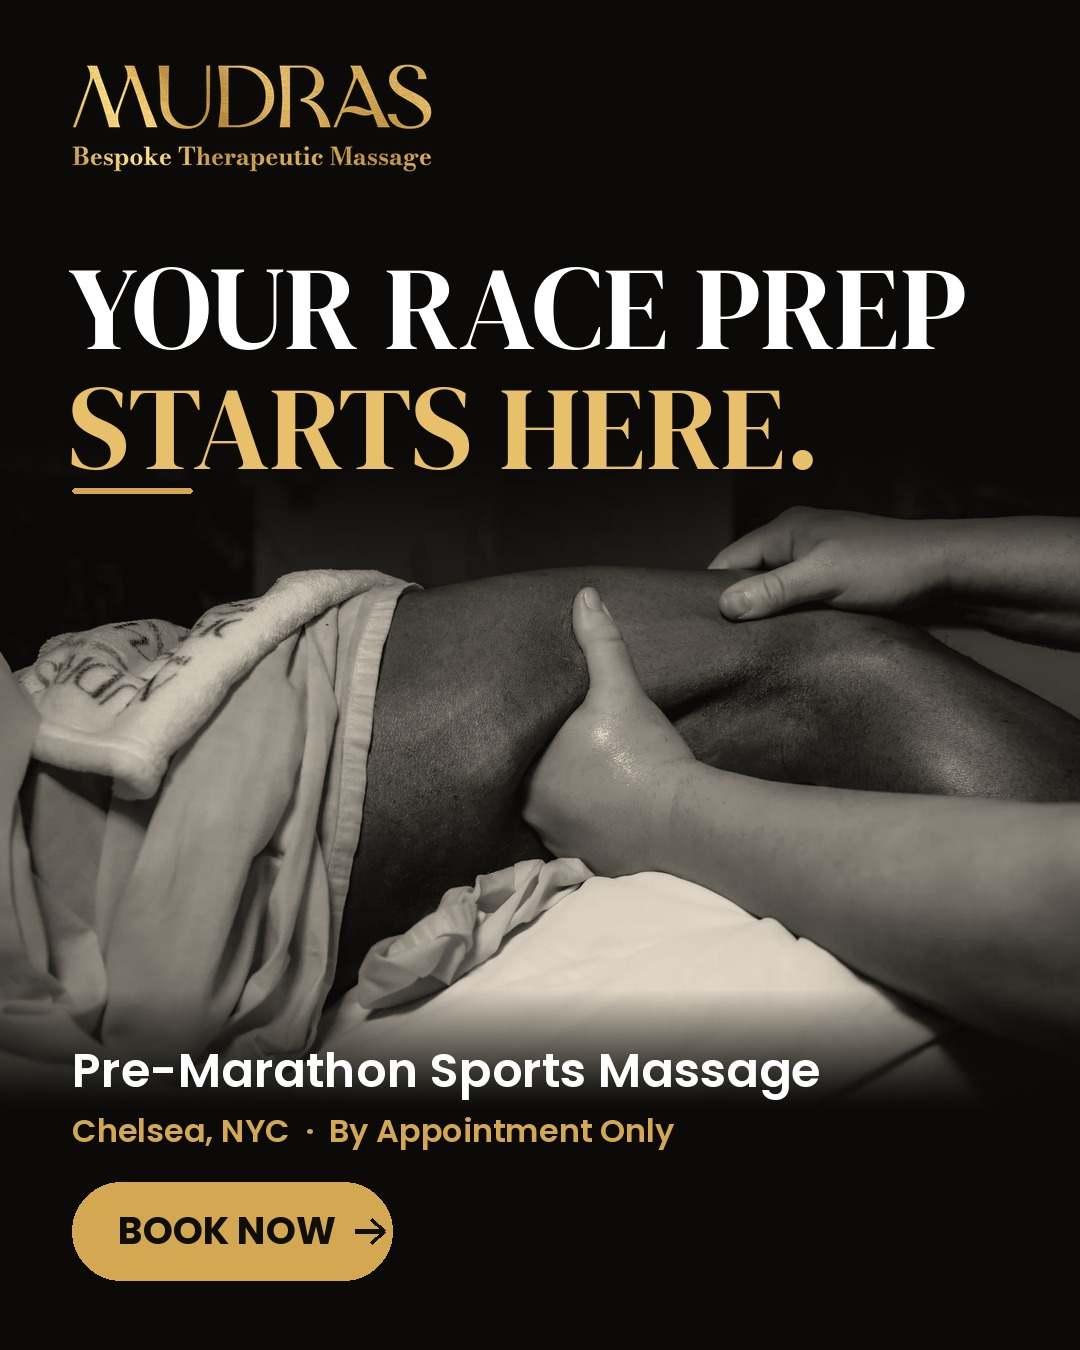
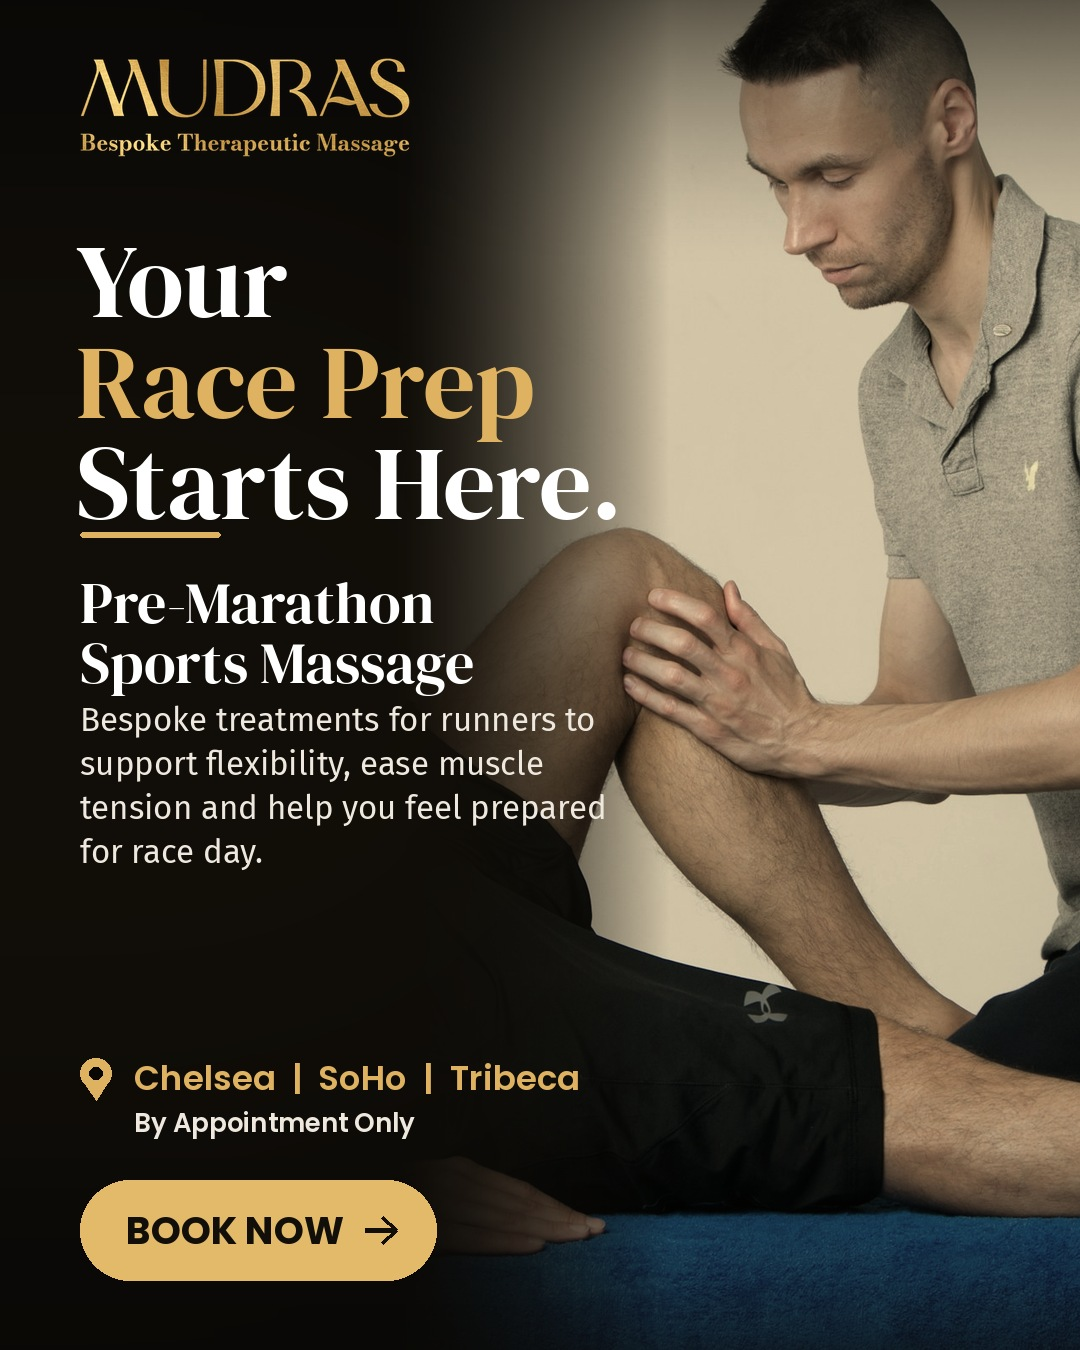
Rebuild Mudras marathon ads: original copy and layout, clearer colour treatment photos
Claude-Session: https://claude.ai/code/session_012iSs7UT5B2wZwFj8sHQe5L

diff --git a/ad-creatives/mudras-marathon/src/mudras.py b/ad-creatives/mudras-marathon/src/mudras.py
@@ -1,122 +1,204 @@
 import sys
 import numpy as np
-from PIL import Image, ImageDraw, ImageFilter, ImageFont
+from PIL import Image, ImageDraw, ImageFilter, ImageFont, ImageOps
 
 D = sys.argv[1]
 M = D + '/m/'
 F = D + '/fonts/'
 OUT = sys.argv[2]
-GOLD = (212, 168, 83)      # sampled from the Mudras logo (#c89848 .. #e0b860)
-GOLD_HI = (232, 192, 108)
+GOLD = (222, 178, 96)
+GOLD_BTN = (226, 186, 106)
 WHITE = (255, 255, 255)
-SOFT = (226, 220, 208)
+BODY = (238, 232, 222)
+INK = (18, 15, 10)
 serif = lambda s: ImageFont.truetype(F + 'DMSerifDisplay-Regular.ttf', s)
 sans = lambda s: ImageFont.truetype(F + 'Poppins-SemiBold.ttf', s)
+body = lambda s: ImageFont.truetype(F + 'FiraSans-Regular.ttf', s)
 bold = lambda s: ImageFont.truetype(F + 'Poppins-Bold.ttf', s)
 
 logo = Image.open(M + 'site/18.img').convert('RGBA')
 logo = logo.crop(logo.getbbox())
 
-# (source file, focus point as fractions of the source, headline lines with gold flag, service line)
+# Copy is kept word for word from the approved ad preview.
 ADS = [
-    ('0.img', (0.74, 0.47), [('RUN STRONG', False), ('IN NYC.', True)], 'Pre-Marathon Sports Massage', 'run-strong'),
-    ('6.img', (0.52, 0.66), [('NYC MARATHON', False), ('READY?', True)], 'Pre-Race Sports Massage', 'marathon-ready'),
-    ('14.img', (0.62, 0.36), [('YOUR RACE PREP', False), ('STARTS HERE.', True)], 'Pre-Marathon Sports Massage', 'race-prep'),
+    dict(slug='run-strong', photo='knead.jpg', focus=(0.46, 0.5), mirror=False, zoom=1.0,
+         head=[('RUN STRONG', WHITE), ('IN NYC.', GOLD)],
+         sub=['Pre-Marathon', 'Sports Massage'],
+         copy='Targeted bodywork to help you feel more mobile, reduce muscle tension and prepare for race day.',
+         icons=[('tension', 'Reduce\nMuscle Tension'), ('mobility', 'Improve\nMobility'), ('ready', 'Feel\nRace-Ready')]),
+    dict(slug='marathon-ready', photo='forearm.jpg', focus=(0.46, 0.70), mirror=False, zoom=1.3,
+         head=[('NYC', WHITE), ('MARATHON', WHITE), ('READY?', GOLD)],
+         sub=['Pre-Race', 'Sports Massage'],
+         copy='Personalized, one-on-one sessions to support your body, mobility and race preparation.',
+         icons=None),
+    dict(slug='race-prep', photo='physio.jpg', focus=(0.50, 0.5), mirror=False, zoom=1.0,
+         head=[('Your', WHITE), ('Race Prep', GOLD), ('Starts Here.', WHITE)],
+         sub=['Pre-Marathon', 'Sports Massage'],
+         copy='Bespoke treatments for runners to support flexibility, ease muscle tension and help you feel prepared for race day.',
+         icons=None),
 ]
 
 
-def warm(im):
-    """Gentle warm duotone on the black-and-white session photos so they sit with the gold."""
-    g = np.asarray(im.convert('L')).astype(np.float32) / 255
-    g = np.clip((g - 0.04) * 1.12, 0, 1) ** 0.95
-    lo = np.array([10, 9, 7], np.float32)
-    hi = np.array([246, 236, 218], np.float32)
-    return Image.fromarray((lo + (hi - lo) * g[..., None]).astype(np.uint8))
+def grade(im):
+    """Warm, low-key grade so every photo sits in the black-and-gold Mudras look."""
+    a = np.asarray(im.convert('RGB')).astype(np.float32) / 255
+    lum = a @ np.array([0.299, 0.587, 0.114], np.float32)
+    a = a * 0.55 + lum[..., None] * 0.45                      # pull saturation down
+    a = a * np.array([1.06, 0.98, 0.86], np.float32)          # warm
+    a = np.clip(a, 0, 1) ** 1.25 * 0.92                        # deeper shadows
+    return Image.fromarray((np.clip(a, 0, 1) * 255).astype(np.uint8))
 
 
-def band(img, src, focus, y0, y1, fade=130):
-    W = img.width
-    im = warm(Image.open(M + 'site/' + src))
-    bh = y1 - y0
-    cw = im.width
-    ch = int(cw * bh / W)
-    if ch > im.height:  # portrait-ish band: crop width instead
-        ch = im.height
-        cw = int(ch * W / bh)
-    cx = int(np.clip(focus[0] * im.width - cw / 2, 0, im.width - cw))
-    cy = int(np.clip(focus[1] * im.height - ch / 2, 0, im.height - ch))
-    ph = im.crop((cx, cy, cx + cw, cy + ch)).resize((W, bh), Image.LANCZOS).convert('RGBA')
-    y = np.arange(bh, dtype=np.float32)
-    a = np.clip(np.minimum(y / fade, (bh - 1 - y) / fade), 0, 1) ** 1.3 * 255
-    ph.putalpha(Image.fromarray(np.repeat(a[:, None], W, 1).astype(np.uint8)))
-    img.alpha_composite(ph, (0, y0))
-
-
-def place(src, focus, W, H, target):
-    im = warm(Image.open(M + 'site/' + src))
-    sc = max(W / im.width, H / im.height) * 1.02
+def photo(ad, W, H, target):
+    im = Image.open(M + 'u/full/' + ad['photo']).convert('RGB')
+    if ad['mirror']:
+        im = ImageOps.mirror(im)
+        ad = dict(ad, focus=(1 - ad['focus'][0], ad['focus'][1]))
+    sc = max(W / im.width, H / im.height) * ad['zoom']
     im = im.resize((int(im.width * sc), int(im.height * sc)), Image.LANCZOS)
-    fx, fy = focus[0] * im.width, focus[1] * im.height
+    fx, fy = ad['focus'][0] * im.width, ad['focus'][1] * im.height
     x0 = int(np.clip(fx - target[0], 0, im.width - W))
     y0 = int(np.clip(fy - target[1], 0, im.height - H))
-    return im.crop((x0, y0, x0 + W, y0 + H)).convert('RGBA')
+    return grade(im.crop((x0, y0, x0 + W, y0 + H))).convert('RGBA')
 
 
-def shade(img, top_end, bot_start, top_a=235, bot_a=245):
+def shade(img, left_end, top_band, bottom_band):
     W, H = img.size
-    y = np.arange(H, dtype=np.float32)
-    a = np.maximum(np.clip(1 - y / top_end, 0, 1) ** 1.4 * top_a,
-                   np.clip((y - bot_start) / (H - bot_start), 0, 1) ** 1.2 * bot_a)
-    lay = Image.new('RGBA', (W, H), (0, 0, 0, 255))
-    lay.putalpha(Image.fromarray(np.repeat(a[:, None], W, 1).astype(np.uint8)))
+    yy, xx = np.mgrid[0:H, 0:W].astype(np.float32)
+    left = np.clip(1 - xx / left_end, 0, 1) ** 0.9 * 238
+    top = np.clip(1 - yy / top_band, 0, 1) ** 1.5 * 210
+    bot = np.clip((yy - (H - bottom_band)) / bottom_band, 0, 1) ** 1.3 * 225
+    vig = (np.hypot((xx - W * 0.7) / W, (yy - H * 0.5) / H) * 120)
+    a = np.clip(np.maximum.reduce([left, top, bot]) + vig * 0.6, 0, 245)
+    lay = Image.new('RGBA', (W, H), (8, 7, 5, 255))
+    lay.putalpha(Image.fromarray(a.astype(np.uint8)))
     img.alpha_composite(lay)
 
 
-def fit_font(d, lines, maxw, start):
-    s = start
-    while max(d.textlength(t, font=serif(s)) for t, _ in lines) > maxw:
-        s -= 2
-    return s
+def wrap(d, text, font, width):
+    out, cur = [], ''
+    for w in text.split():
+        t = (cur + ' ' + w).strip()
+        if d.textlength(t, font=font) > width and cur:
+            out.append(cur); cur = w
+        else:
+            cur = t
+    return out + [cur]
 
 
-def render(src, focus, lines, service, slug, W, H, kind):
-    story = kind == 'story'
-    # keep text inside Meta's safe zones: stories lose ~14% top and ~20% bottom to UI
-    top0 = 250 if story else 64
-    bottom_pad = 340 if story else 70
-    img = Image.new('RGBA', (W, H), (11, 10, 8, 255))
-    if story:
-        band(img, src, focus, 600, 1370, 150)
-    else:
-        band(img, src, focus, 440, 1110, 120)
+def icon(d, kind, cx, cy, r, col=GOLD):
+    d.ellipse((cx - r, cy - r, cx + r, cy + r), outline=col, width=3)
+    s = r * 0.5
+    if kind == 'tension':  # tight zig-zag easing into a smooth line
+        pts = [(cx - s, cy), (cx - s * 0.6, cy - s * 0.5), (cx - s * 0.2, cy + s * 0.5), (cx + s * 0.15, cy - s * 0.3),
+               (cx + s * 0.4, cy + s * 0.1), (cx + s, cy + s * 0.1)]
+        d.line(pts, fill=col, width=4, joint='curve')
+    elif kind == 'mobility':  # circular arrows
+        d.arc((cx - s, cy - s, cx + s, cy + s), 200, 340, fill=col, width=4)
+        d.arc((cx - s, cy - s, cx + s, cy + s), 20, 160, fill=col, width=4)
+        d.polygon([(cx + s * 0.95, cy - s * 0.55), (cx + s * 1.15, cy - s * 0.05), (cx + s * 0.55, cy - s * 0.2)], fill=col)
+        d.polygon([(cx - s * 0.95, cy + s * 0.55), (cx - s * 1.15, cy + s * 0.05), (cx - s * 0.55, cy + s * 0.2)], fill=col)
+    else:  # race-ready: check mark
+        d.line((cx - s * 0.75, cy + s * 0.05, cx - s * 0.2, cy + s * 0.6, cx + s * 0.85, cy - s * 0.6), fill=col, width=5, joint='curve')
+
+
+def pin(d, x, y, h, col=GOLD):
+    r = h * 0.36
+    d.ellipse((x - r, y, x + r, y + 2 * r), fill=col)
+    d.polygon([(x - r * 0.86, y + r * 1.5), (x + r * 0.86, y + r * 1.5), (x, y + h)], fill=col)
+    d.ellipse((x - r * 0.4, y + r * 0.6, x + r * 0.4, y + r * 1.4), fill=(8, 7, 5))
+
+
+def right_photo(ad, W, H, frac=0.64, fade=280):
+    """Photo fills the right side at full height; its left edge melts into black, like the original layout."""
+    im = Image.open(M + 'u/full/' + ad['photo']).convert('RGB')
+    if ad['mirror']:
+        im = ImageOps.mirror(im)
+    fx = (1 - ad['focus'][0]) if ad['mirror'] else ad['focus'][0]
+    rw = int(W * frac)
+    sc = H / im.height * ad['zoom']
+    im = im.resize((int(im.width * sc), int(im.height * sc)), Image.LANCZOS)
+    cx = int(np.clip(fx * im.width - rw / 2, 0, max(0, im.width - rw)))
+    cy = int(np.clip(ad['focus'][1] * im.height - H / 2, 0, im.height - H))
+    ph = grade(im.crop((cx, cy, cx + rw, cy + H))).convert('RGBA')
+    xx = np.arange(rw, dtype=np.float32)
+    a = (np.clip(xx / fade, 0, 1) ** 1.6 * 255)
+    ph.putalpha(Image.fromarray(np.repeat(a[None, :], H, 0).astype(np.uint8)))
+    img = Image.new('RGBA', (W, H), (9, 8, 6, 255))
+    glow = Image.new('L', (W, H), 0)
+    ImageDraw.Draw(glow).ellipse((-W * 0.4, H * 0.1, W * 0.7, H * 0.9), fill=40)
+    lay = Image.new('RGBA', (W, H), (60, 44, 22, 255))
+    lay.putalpha(glow.filter(ImageFilter.GaussianBlur(160)))
+    img.alpha_composite(lay)
+    img.alpha_composite(ph, (W - rw, 0))
+    # gentle top/bottom darkening keeps logo and CTA crisp
+    yy = np.arange(H, dtype=np.float32)
+    v = np.maximum(np.clip(1 - yy / (H * 0.2), 0, 1) ** 1.5 * 150, np.clip((yy - H * 0.8) / (H * 0.2), 0, 1) ** 1.5 * 170)
+    lay = Image.new('RGBA', (W, H), (9, 8, 6, 255))
+    lay.putalpha(Image.fromarray(np.repeat(v[:, None], W, 1).astype(np.uint8)))
+    img.alpha_composite(lay)
+    return img
+
+
+def render(ad, W, H, story):
+    pad = 80
+    top0 = 240 if story else 58
+    img = right_photo(ad, W, H, frac=0.70 if story else 0.64, fade=300 if story else 280)
     d = ImageDraw.Draw(img)
-    pad = 72
-    lw = 360
+    colw = int(W * 0.50)
+    lw = 330
     lg = logo.resize((lw, int(logo.height * lw / logo.width)), Image.LANCZOS)
     img.alpha_composite(lg, (pad, top0))
-    y = top0 + lg.height + 54
-    fs = fit_font(d, lines, W - 2 * pad, 118)
-    for t, gold in lines:
-        d.text((pad - 4, y), t, font=serif(fs), fill=GOLD_HI if gold else WHITE)
-        y += int(fs * 1.02)
-    d.rounded_rectangle((pad, y + 22, pad + 120, y + 27), 2, fill=GOLD)
-    # bottom block
-    by = H - bottom_pad - 98
+    gap = 1.5 if story else 1.0
+    y = top0 + lg.height + int(52 * gap)
+    hs = 112 if len(ad['head']) == 2 else 104
+    while max(d.textlength(t, font=serif(hs)) for t, _ in ad['head']) > W * 0.62:
+        hs -= 2
+    for t, c in ad['head']:
+        d.text((pad - 4, y), t, font=serif(hs), fill=c)
+        y += int(hs * 0.98)
+    y += 20
+    d.rounded_rectangle((pad, y, pad + 140, y + 5), 2, fill=GOLD)
+    y += int(30 * gap)
+    for t in ad['sub']:
+        d.text((pad, y), t, font=serif(58), fill=WHITE)
+        y += 60
+    y += int(18 * gap)
+    for ln in wrap(d, ad['copy'], body(33), colw):
+        d.text((pad, y), ln, font=body(33), fill=BODY)
+        y += 44
+    if ad['icons']:
+        y += int(26 * gap)
+        cw = 172
+        for i, (k, label) in enumerate(ad['icons']):
+            cx = pad + 78 + i * cw
+            icon(d, k, cx, y + 40, 38)
+            for j, ln in enumerate(label.split('\n')):
+                tw = d.textlength(ln, font=sans(22))
+                d.text((cx - tw / 2, y + 90 + j * 27), ln, font=sans(22), fill=WHITE)
+            if i < 2:
+                d.line((cx + cw / 2, y + 4, cx + cw / 2, y + 140), fill=(120, 96, 56), width=2)
+        y += 150
+    by = H - (330 if story else 70) - 100
     btn = 'BOOK NOW'
     bf = bold(38)
-    bw = d.textlength(btn, font=bf) + 56 + 46
-    d.rounded_rectangle((pad, by, pad + bw, by + 98), 49, fill=GOLD)
-    d.text((pad + 46, by + 22), btn, font=bf, fill=(16, 14, 10))
-    ax = pad + 46 + d.textlength(btn, font=bf) + 20
-    d.line((ax, by + 49, ax + 28, by + 49), fill=(16, 14, 10), width=5)
-    d.line((ax + 16, by + 37, ax + 29, by + 49, ax + 16, by + 61), fill=(16, 14, 10), width=5)
-    d.text((pad, by - 74), 'Chelsea, NYC  ·  By Appointment Only', font=sans(32), fill=GOLD)
-    d.text((pad, by - 146), service, font=sans(48), fill=WHITE)
-    name = f'mudras-{slug}-{"story-1080x1920" if story else "feed-1080x1350"}'
-    img.convert('RGB').save(OUT + f'/{name}.jpg', quality=92)
-    return name
+    tw = d.textlength(btn, font=bf)
+    bw = tw + 56 + 46 + 36
+    d.rounded_rectangle((pad, by, pad + bw, by + 100), 50, fill=GOLD_BTN)
+    d.text((pad + 46, by + 24), btn, font=bf, fill=INK)
+    ax = pad + 46 + tw + 22
+    d.line((ax, by + 50, ax + 30, by + 50), fill=INK, width=5)
+    d.line((ax + 17, by + 37, ax + 31, by + 50, ax + 17, by + 63), fill=INK, width=5)
+    ly = by - 124
+    pin(d, pad + 16, ly + 2, 42)
+    d.text((pad + 54, ly - 2), 'Chelsea  |  SoHo  |  Tribeca', font=sans(34), fill=GOLD)
+    d.text((pad + 54, ly + 48), 'By Appointment Only', font=sans(26), fill=BODY)
+    assert y < ly - 10, (ad['slug'], story, y, ly)
+    name = f'mudras-{ad["slug"]}-{"story-1080x1920" if story else "feed-1080x1350"}'
+    img.convert('RGB').save(OUT + f'/{name}.jpg', quality=93)
+    return name, y, ly
 
 
-for src, focus, lines, service, slug in ADS:
-    print(render(src, focus, lines, service, slug, 1080, 1350, 'feed'))
-    print(render(src, focus, lines, service, slug, 1080, 1920, 'story'))
+for ad in ADS:
+    print(render(ad, 1080, 1350, False))
+    print(render(ad, 1080, 1920, True))

diff --git a/ad-creatives/mudras-marathon/IMAGE-SOURCES.md b/ad-creatives/mudras-marathon/IMAGE-SOURCES.md
@@ -1,13 +1,13 @@
 # Mudras NYC Marathon ads: image sources
 
-All photos are Mudras's own session photos from mudras.com (Squarespace CDN). No stock images.
+Text is kept word for word from the approved ad preview. Layout follows the original (logo, headline, gold rule, serif subheading, body copy, icons on ad 1, location, Book Now), with larger text for phones.
 
-| Ad | Photo (source URL) | Page it appears on |
-|---|---|---|
-| Run Strong in NYC | https://images.squarespace-cdn.com/content/v1/68c4a7c58fe04131b7cf10fa/0a5e832f-788a-4d0a-82ea-f247128b0fe8/Benefits+of+Trigger+Point+Therapy+by+Mudras.jpg | https://www.mudras.com/massage-for-runners-nyc |
-| NYC Marathon Ready? | https://images.squarespace-cdn.com/content/v1/68c4a7c58fe04131b7cf10fa/27b665e6-325e-4343-a04d-c233494ee653/Sports+Massage+in+NYC+by+Mudras.jpg | https://www.mudras.com/sports-massage-nyc and /massage-for-runners-nyc |
-| Your Race Prep Starts Here | https://images.squarespace-cdn.com/content/v1/68c4a7c58fe04131b7cf10fa/9903a17e-5c98-4f31-a761-3a34e2fe43a1/Expert+Deep+Tissue+Massage+Therapy+in+Chelsea%2C+NYC.jpg | https://www.mudras.com/ , /sports-massage-nyc , /deep-tissue-massage-nyc |
-| Logo (all ads) | https://images.squarespace-cdn.com/content/v1/68c4a7c58fe04131b7cf10fa/d7cb644e-71c3-4404-986c-d5b3c6afc6c9/1+Mudras+Logo+Full.png | https://www.mudras.com/ |
+| Ad | Photo | Source URL | Photographer | Licence |
+|---|---|---|---|---|
+| Run Strong in NYC | Two hands kneading deep into the leg | https://unsplash.com/photos/J1trUf0Lj3Q | Bas Peperzak | Unsplash License (free commercial use) |
+| NYC Marathon Ready? | Stacked hands pressing into the calf | https://unsplash.com/photos/S5kBoNhfHgc | Filipp Romanovski | Unsplash License (free commercial use) |
+| Your Race Prep Starts Here | Therapist treating an athlete's leg | https://unsplash.com/photos/pbUWW-CBoqY | Yury Kirillov | Unsplash License (free commercial use) |
+| Logo (all ads) | Mudras logo | https://images.squarespace-cdn.com/content/v1/68c4a7c58fe04131b7cf10fa/d7cb644e-71c3-4404-986c-d5b3c6afc6c9/1+Mudras+Logo+Full.png | Mudras | Client's own |
 
-Suggested landing page: https://www.mudras.com/massage-for-runners-nyc
-Brand gold sampled from the logo: #C89848 to #E0B860 (used #D4A853 / #E8C06C). Background #0B0A08.
+The client asked for photos "ideally from an actual Mudras session". mudras.com only has black-and-white session photos; if the client can share colour photos from a real session, they can be dropped into the same layout.
+Brand gold sampled from the logo: #C89848 to #E0B860.
